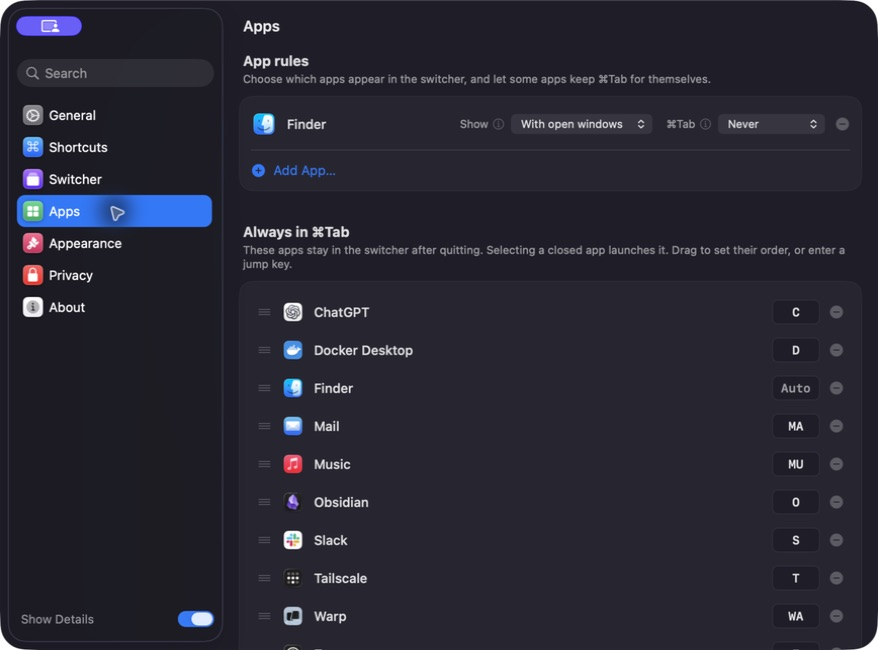
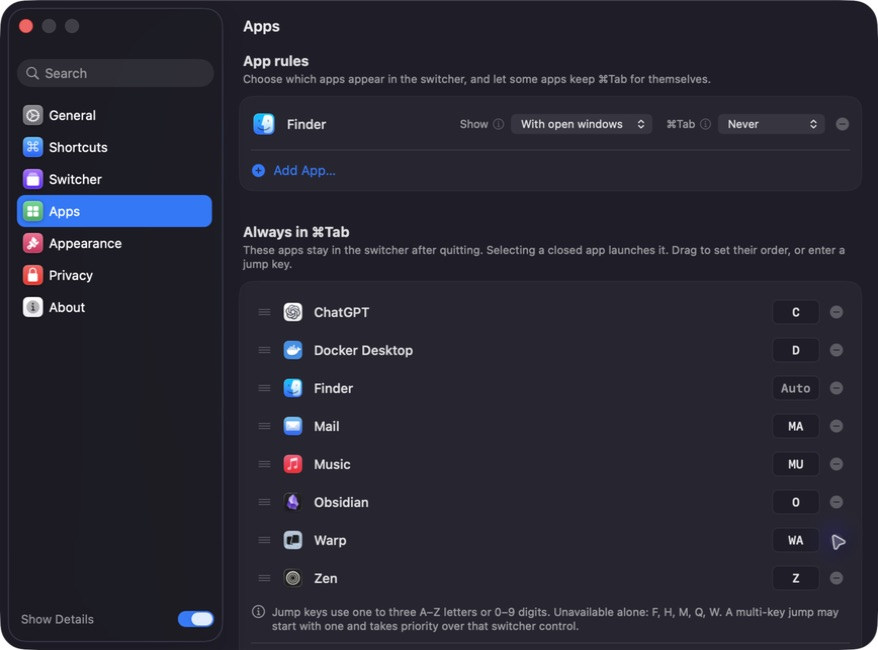
docs: 배포 이미지를 제품 중심으로 개편

diff --git a/README.md b/README.md
@@ -15,9 +15,9 @@
 
 <br>
 
-<img src="assets/settings-pinned-apps.png" width="878" alt="StayTab pinned-app settings">
+<img src="assets/switcher-hero.png" width="980" alt="StayTab switcher with separate Always and Running now sections">
 
-<sub>Build a permanent app roster, choose its order, and assign one-to-three-character jump keys.</sub>
+<sub>Pinned apps keep a permanent lane. Docker is closed but ready to launch; temporary apps stay in Running now.</sub>
 
 </div>
 
@@ -33,6 +33,16 @@ The native macOS switcher only remembers apps that are running. StayTab adds a p
 
 Quick-tapping `⌘Tab` still returns to the previously focused app. Holding it opens StayTab, `⌘⇧Tab` moves backwards, and the selected window receives keyboard focus immediately.
 
+## Set up your permanent lane
+
+<div align="center">
+
+<img src="assets/settings-pinned-apps.png" width="878" alt="StayTab pinned-app settings">
+
+<sub>Choose the order once, then use automatic or custom one-to-three-character jump keys.</sub>
+
+</div>
+
 ## Highlights
 
 - **Persistent pinned apps.** Keep Mail, your browser, terminal, notes, music, and other daily tools in a predictable order.
@@ -46,20 +56,19 @@ StayTab keeps BetterCmdTab's inherited preference formats readable for upgrades,
 
 ## Install
 
-### Signed release
+### Download the DMG — recommended
 
-The first notarized `v0.1.0` release is being prepared. When it is published, download the `.dmg` from [GitHub Releases](https://github.com/kang1027/StayTab/releases/latest), open it, and drag **StayTab** to Applications.
+The first notarized `v0.1.0` release is being prepared. When it is published:
 
-Do not redistribute local test builds. Official binaries will be signed with a Developer ID, notarized by Apple, and accompanied by their GPL-3.0 source.
+1. Download `StayTab-*.dmg` from [GitHub Releases](https://github.com/kang1027/StayTab/releases/latest).
+2. Open the DMG and drag **StayTab** to Applications.
+3. Launch StayTab and grant Accessibility access when macOS asks.
 
-### Homebrew
+The DMG is only required for the first installation. StayTab can check its signed GitHub release feed afterward; choose a cadence under **Settings → General → Check for updates**. Enable **Include beta releases** only if you want prerelease builds.
 
-The repository contains the Cask and release automation. After the first release:
+Official binaries are signed with a Developer ID, notarized by Apple, and accompanied by their GPL-3.0 source. Do not redistribute local test builds.
 
-```sh
-brew tap kang1027/staytab https://github.com/kang1027/StayTab.git
-brew install --cask kang1027/staytab/staytab
-```
+Homebrew is intentionally not advertised for the initial release. Direct DMG installation and in-app updates are the supported distribution path while the first releases stabilize.
 
 ### Build from source
 

diff --git a/docs/SCREENSHOTS.md b/docs/SCREENSHOTS.md
@@ -1,0 +1,27 @@
+# StayTab 배포 이미지 가이드
+
+README와 릴리스에 사용하는 이미지는 실제 StayTab 빌드에서 캡처합니다. 사용자 데이터,
+로컬 프로젝트명, 한국 전용 앱이 보이는 이미지는 공개하지 않습니다.
+
+## 메인 스위처 이미지
+
+- macOS와 StayTab을 다크 모드로 설정합니다.
+- 패널 크기는 70%, 레이아웃은 Grid View, 창 제목 표시는 끔으로 설정합니다.
+- Always에는 ChatGPT, Docker, Mail, Music, Obsidian, Warp, Zen을 둡니다.
+- Docker는 종료해 `Launch` 상태가 보이게 합니다.
+- Running now에는 System Settings, Notion Calendar, Figma, Slack만 둡니다.
+- StayTab 설정창과 다른 임시 앱은 닫습니다.
+- `⌘Tab`을 길게 눌러 패널을 표시한 뒤 원본 Retina 해상도로 캡처합니다.
+- 패널 바깥의 개인 화면은 제거하고, 앱 이름과 점프 키가 선명한지 확인합니다.
+
+현재 README 자산은 `assets/switcher-hero.png`이며 1376×744 PNG입니다.
+
+## 설정 이미지
+
+- Apps 화면의 Always 목록 전체와 점프 키 입력란이 보이게 합니다.
+- 공개 스위처 이미지와 같은 앱 순서를 사용합니다.
+- 검색어, 사용자 경로, 계정 정보가 없는지 확인합니다.
+
+현재 README 자산은 `assets/settings-pinned-apps.png`이며 878×650 PNG입니다.
+
+화면에 포함된 제3자 앱 아이콘과 상표의 권리는 각 소유자에게 있습니다.

diff --git a/NOTICE.md b/NOTICE.md
@@ -18,3 +18,6 @@ StayTab은 고정 앱을 종료 후에도 `⌘Tab` 목록에 유지하는 기능
 전체 변경 이력은 이 저장소의 Git 기록에서 확인할 수 있습니다. 원본 저작권 고지와
 GPL-3.0 라이선스는 유지됩니다. StayTab은 BetterCmdTab 원작자의 공식 제품이나 보증을
 받은 배포판이 아닙니다.
+
+README의 제품 화면에는 앱 식별을 위해 제3자 앱 아이콘이 포함될 수 있습니다. 해당
+상표와 아이콘의 권리는 각 소유자에게 있습니다.
